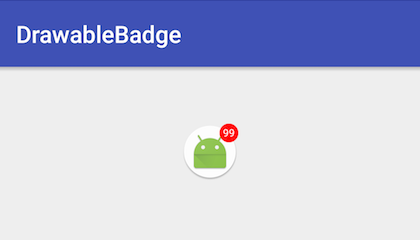
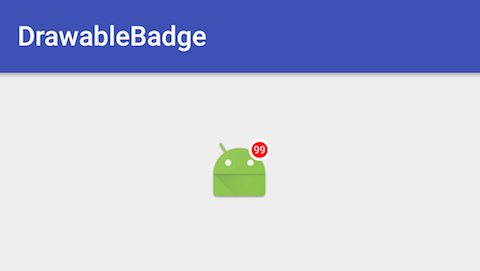
Change drawable example

Changed region(s): [[0.031, 0.0875, 0.4333, 0.2042], [0.0, 0.2625, 1.0, 0.2917], [0.4333, 0.4958, 0.5881, 0.7583]]

diff --git a/demo/src/main/java/com/minibugdev/drawablebadge/demo/DemoActivity.kt b/demo/src/main/java/com/minibugdev/drawablebadge/demo/DemoActivity.kt
@@ -24,7 +24,7 @@ class DemoActivity : AppCompatActivity() {
 
 	private fun drawBadge(number: Int, position: BadgePosition) {
 		DrawableBadge.Builder(applicationContext)
-			.drawableResId(R.mipmap.ic_launcher_round)
+			.drawableResId(R.mipmap.ic_launcher)
 			.badgeColor(R.color.badgeColor)
 			.badgeSize(R.dimen.badge_size)
 			.badgePosition(position)
